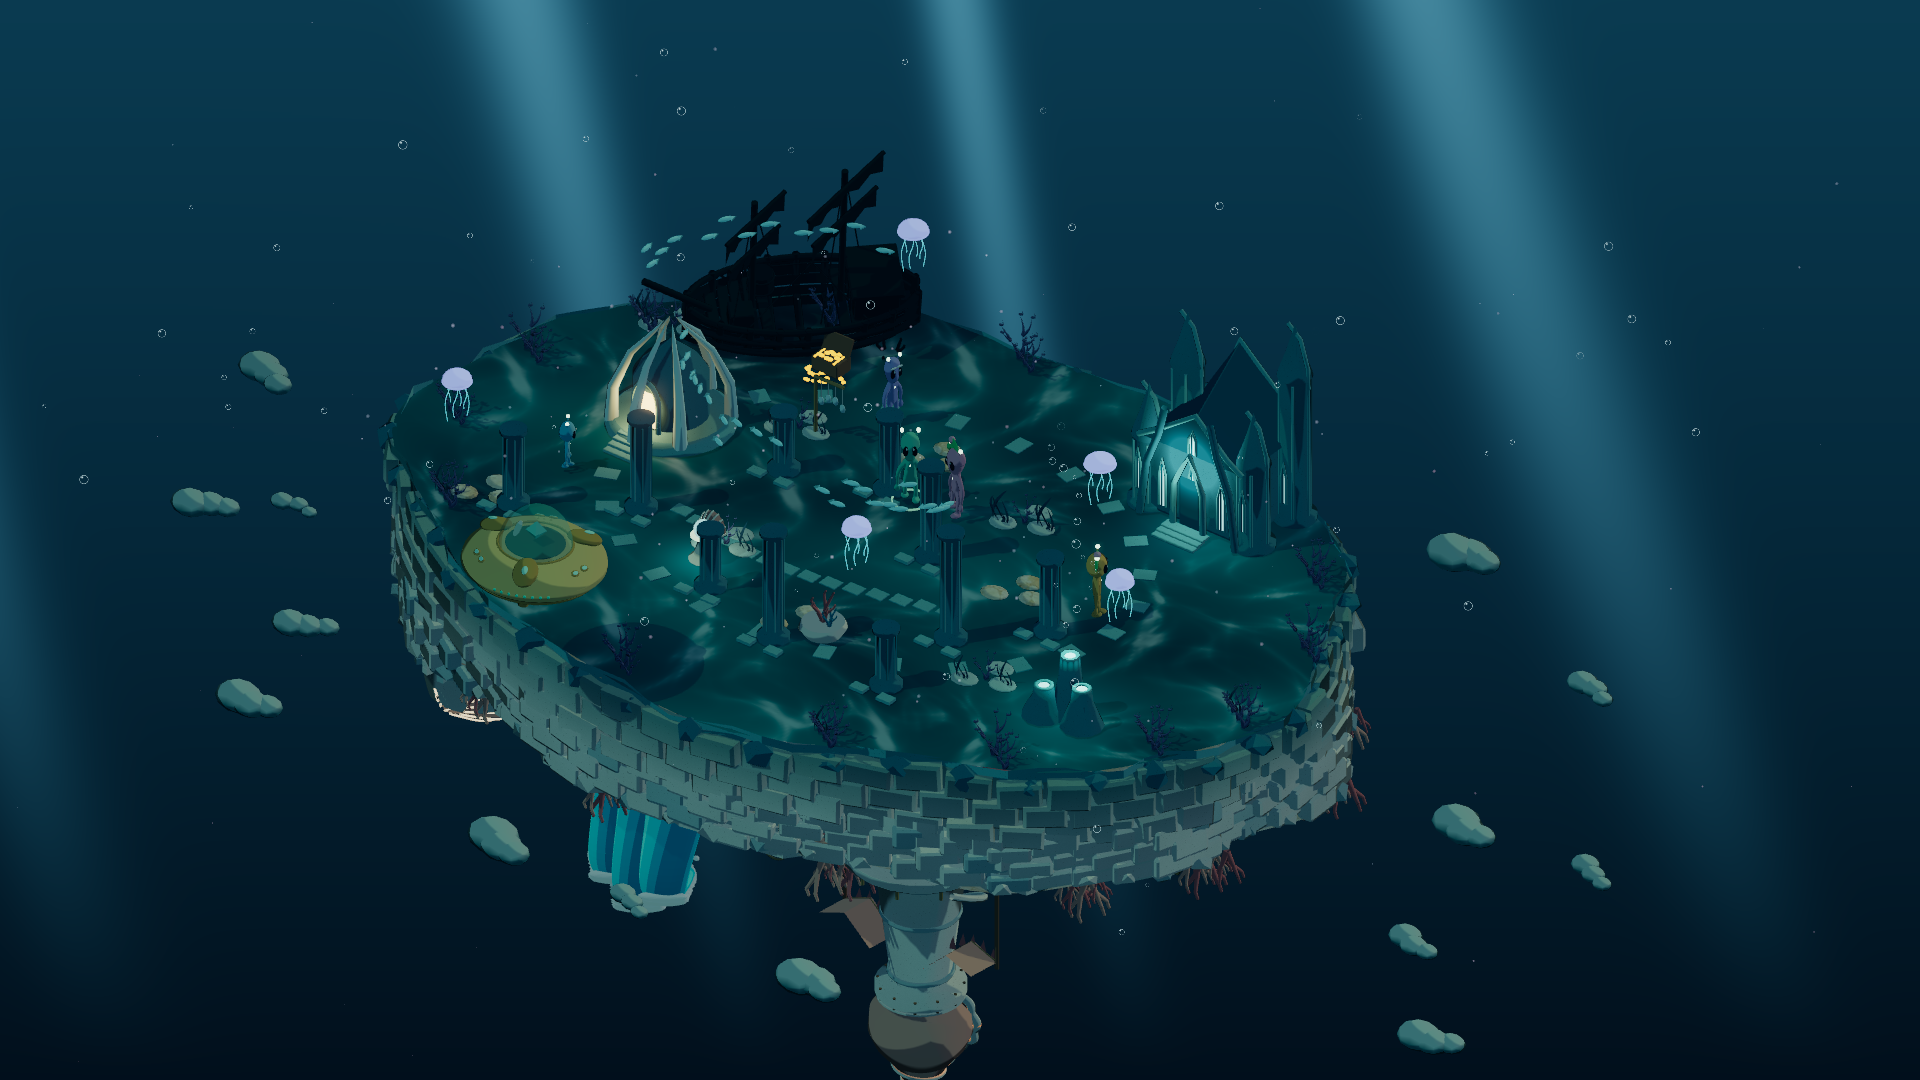
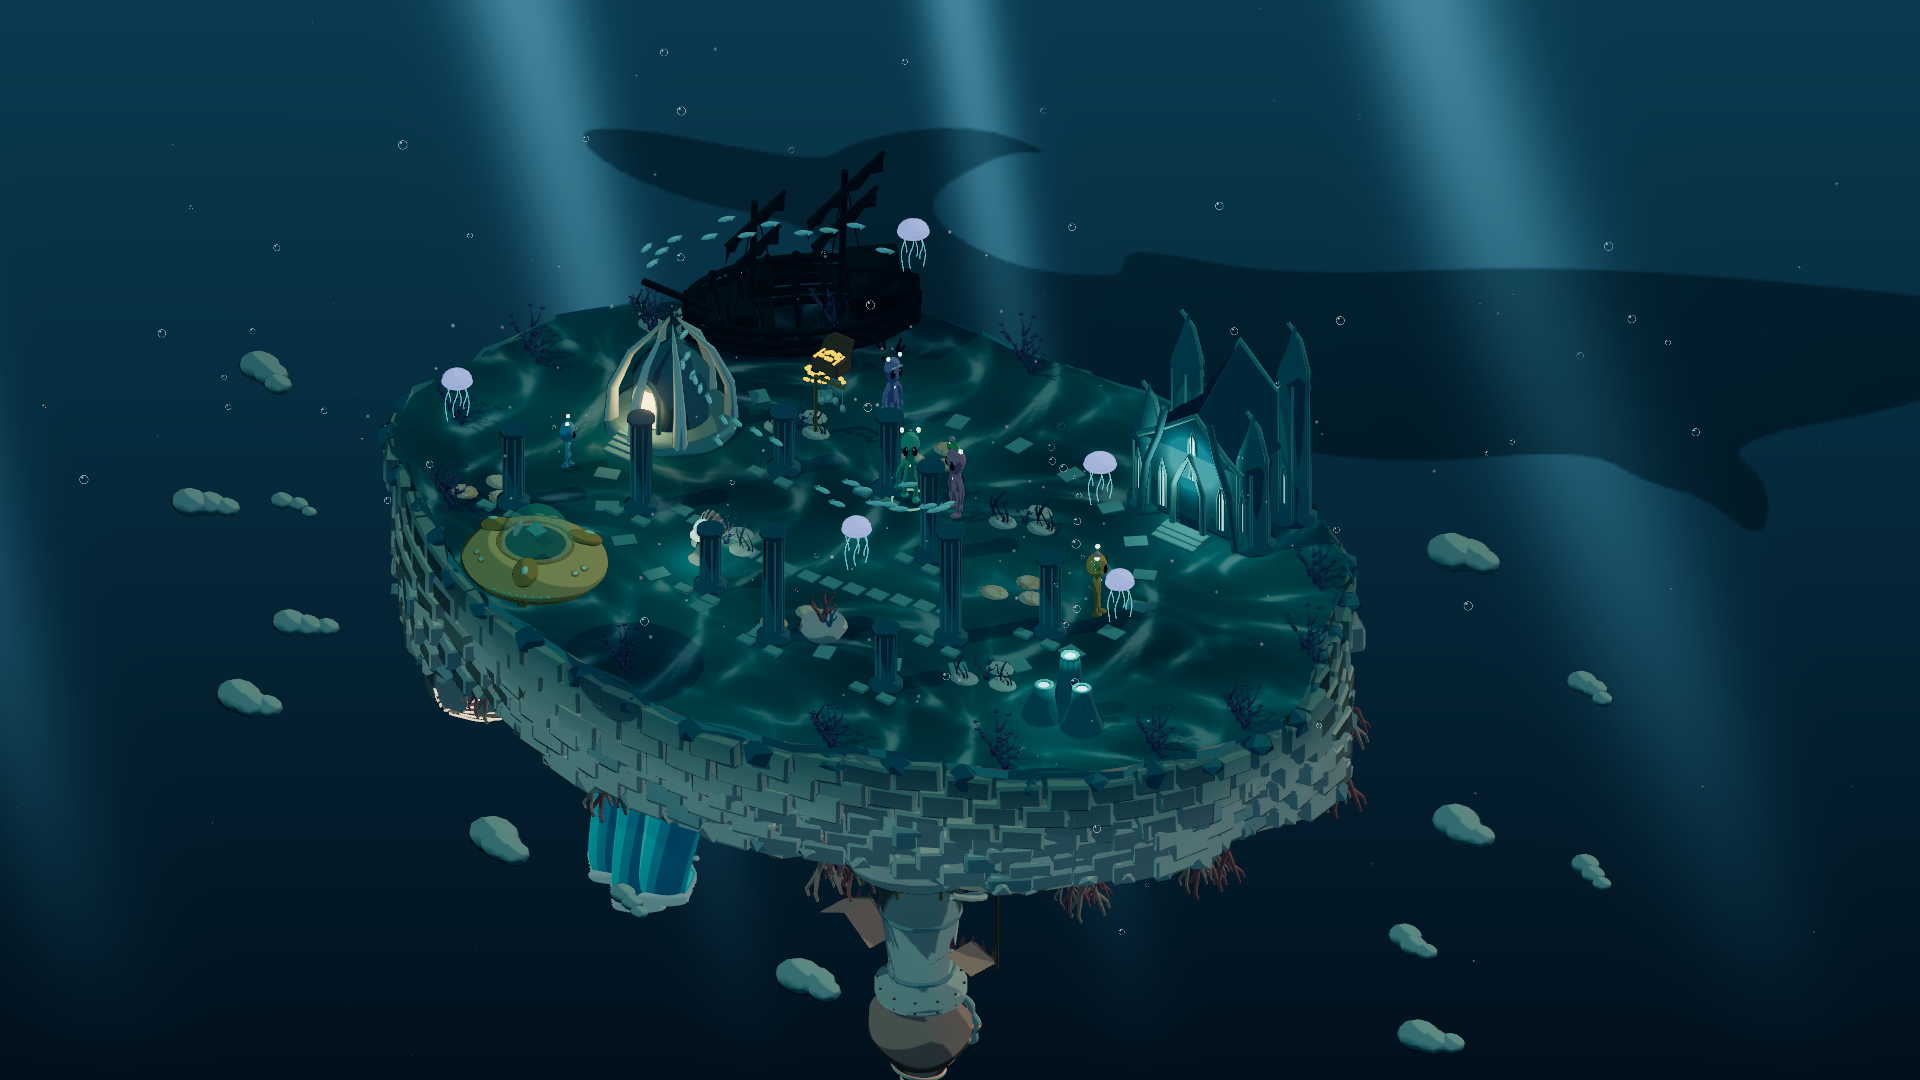
更新海洋背面背景

diff --git a/src/npr.js b/src/npr.js
@@ -136,14 +136,33 @@ export function createBioluminescence(parent,{radius,height,color,count=7}){
 }
 
 export function createAtmosphere(scene,camera,random){
- const time={value:0},cloudCover={value:0},spores={value:0},wind={value:.2},front={value:1},aspect={value:1},storybook={value:0},ocean={value:0};
- let enteringWater=false,immersionStart=null,immersionEnd=null;
+ const time={value:0},cloudCover={value:0},spores={value:0},wind={value:.2},front={value:1},aspect={value:1},storybook={value:0},ocean={value:0},whaleReveal={value:0};
+ let enteringWater=false,immersionStart=null,immersionEnd=null,whaleUpdatedAt=null;
  const bubbleAge={value:0},bubbleStopAge={value:0};
  // Fill the viewport directly so zooming cannot crop away the nebula's detail.
+ let whaleMap;
+ if(typeof document==='undefined'){
+  whaleMap=new THREE.DataTexture(new Uint8Array([0,0,0,0]),1,1,THREE.RGBAFormat);whaleMap.needsUpdate=true;
+ }else{
+  const whaleCanvas=document.createElement('canvas');whaleCanvas.width=512;whaleCanvas.height=204;
+  const whaleContext=whaleCanvas.getContext('2d');
+  // Smooth silhouette traced from the supplied whale reference, mirrored so the existing tail animation stays on the left.
+  // The dense rounded torso and lifted flukes are intentional: the animal should read as a huge whale, not a long thin fish.
+  const whaleOutline=[[37,19],[113,38],[126,23],[163,10],[190,23],[173,21],[143,49],[170,72],[210,77],[210,67],[217,64],[263,76],[356,70],[486,87],[497,92],[500,105],[467,132],[399,148],[416,166],[414,194],[394,172],[377,167],[357,151],[291,160],[233,142],[201,152],[147,149],[133,142],[171,135],[183,126],[141,100],[114,64],[74,57],[41,37]];
+  whaleContext.fillStyle='#fff';whaleContext.beginPath();
+  const whaleLast=whaleOutline[whaleOutline.length-1],whaleFirst=whaleOutline[0];
+  whaleContext.moveTo((whaleLast[0]+whaleFirst[0])*.5,(whaleLast[1]+whaleFirst[1])*.5);
+  for(let i=0;i<whaleOutline.length;i++){
+   const point=whaleOutline[i],next=whaleOutline[(i+1)%whaleOutline.length];
+   whaleContext.quadraticCurveTo(point[0],point[1],(point[0]+next[0])*.5,(point[1]+next[1])*.5);
+  }
+  whaleContext.closePath();whaleContext.fill();
+  whaleMap=new THREE.CanvasTexture(whaleCanvas);whaleMap.colorSpace=THREE.NoColorSpace;whaleMap.generateMipmaps=false;whaleMap.minFilter=whaleMap.magFilter=THREE.LinearFilter;
+ }
  const sky=new THREE.Mesh(new THREE.PlaneGeometry(2,2),new THREE.ShaderMaterial({
-  uniforms:{time,cloudCover,front,aspect,storybook,ocean},depthWrite:false,depthTest:false,
+  uniforms:{time,cloudCover,front,aspect,storybook,ocean,whaleReveal,whaleMap:{value:whaleMap}},depthWrite:false,depthTest:false,
   vertexShader:'varying vec2 vUv;void main(){vUv=uv;gl_Position=vec4(position.xy,1.0,1.0);}',
-  fragmentShader:`uniform float time,cloudCover,front,aspect,storybook,ocean;varying vec2 vUv;${noiseGLSL}
+  fragmentShader:`uniform float time,cloudCover,front,aspect,storybook,ocean,whaleReveal;uniform sampler2D whaleMap;varying vec2 vUv;${noiseGLSL}
    void main(){
     vec2 p=(vUv-.5)*vec2(aspect,1.0);
     if(ocean>.5){
@@ -152,6 +171,18 @@ export function createAtmosphere(scene,camera,random){
      shallow+=vec3(.055,.075,.085)*mist(p*4.+vec2(time*.006,0.));
      float shafts=pow(.5+.5*sin(p.x*13.+p.y*3.+sin(p.x*5.+time*.02)),12.);
      vec3 color=mix(deep,shallow,front)+vec3(.04,.12,.16)*shafts*pow(vUv.y,1.3)*(1.-front);
+     // The contour follows the supplied whale reference while staying large enough to read through underwater fog.
+     vec2 whaleUv=(vUv-vec2(.66,.69))/vec2(.84,.43)+.5;
+     whaleUv.y+=sin(time*.055)*.008;
+     // Move both flukes and the tail stock together, fading the motion smoothly into the torso so the tail stays soft and connected.
+     float tailSwing=1.-smoothstep(.10,.43,whaleUv.x);
+     tailSwing=tailSwing*tailSwing*(3.-2.*tailSwing);
+     float tailSway=sin(time*.18);
+     whaleUv.y-=tailSwing*(.010+tailSway*.060);
+     float whaleBounds=step(0.,whaleUv.x)*step(whaleUv.x,1.)*step(0.,whaleUv.y)*step(whaleUv.y,1.);
+     float whale=texture2D(whaleMap,clamp(whaleUv,0.,1.)).a*whaleBounds;
+     float whaleFog=.45+.09*mist((whaleUv-.5)*5.+vec2(time*.003,0.));
+     color=mix(color,vec3(.0015,.009,.015),whale*whaleReveal*whaleFog);
      gl_FragColor=vec4(color,1.0);
      #include <tonemapping_fragment>
      #include <colorspace_fragment>
@@ -250,6 +281,11 @@ export function createAtmosphere(scene,camera,random){
   bubbleAge.value=immersionStart===null?0:t-immersionStart;
   bubbleStopAge.value=immersionEnd===null?bubbleAge.value:immersionEnd-immersionStart;
   immersion.visible=immersionStart!==null&&(immersionEnd===null||t<immersionEnd+1/.139);
+  const whaleNow=performance.now()/1000,whaleTarget=isOcean?THREE.MathUtils.smoothstep(1-frontAmount,.04,.92):0;
+  if(whaleUpdatedAt===null)whaleReveal.value=whaleTarget;
+  else if(whaleTarget<=whaleReveal.value)whaleReveal.value=whaleTarget;
+  else whaleReveal.value=THREE.MathUtils.damp(whaleReveal.value,whaleTarget,.55,Math.min(.1,Math.max(0,whaleNow-whaleUpdatedAt)));
+  whaleUpdatedAt=whaleNow;
   ocean.value=isOcean?1:0;storybook.value=isStorybook?1:0;time.value=t;aspect.value=(camera.right-camera.left)/(camera.top-camera.bottom);front.value=frontAmount;cloudCover.value=weather.weights.mist*.65+weather.weights.rain*.85;spores.value=weather.weights.spores;wind.value=weather.wind;
  }};
 }
